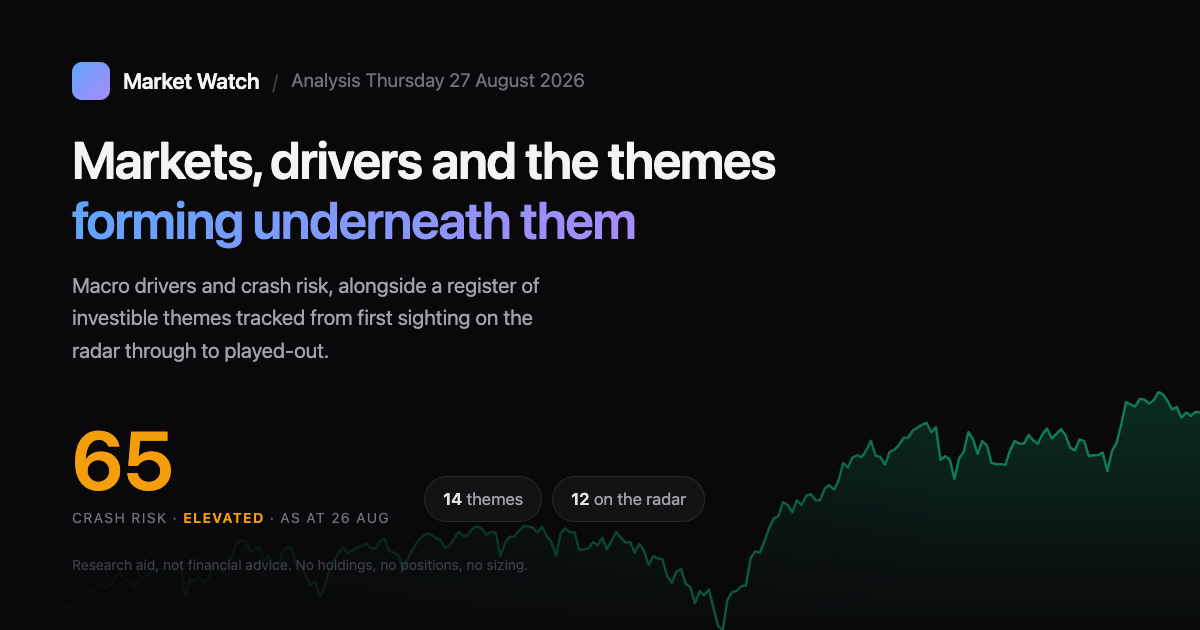
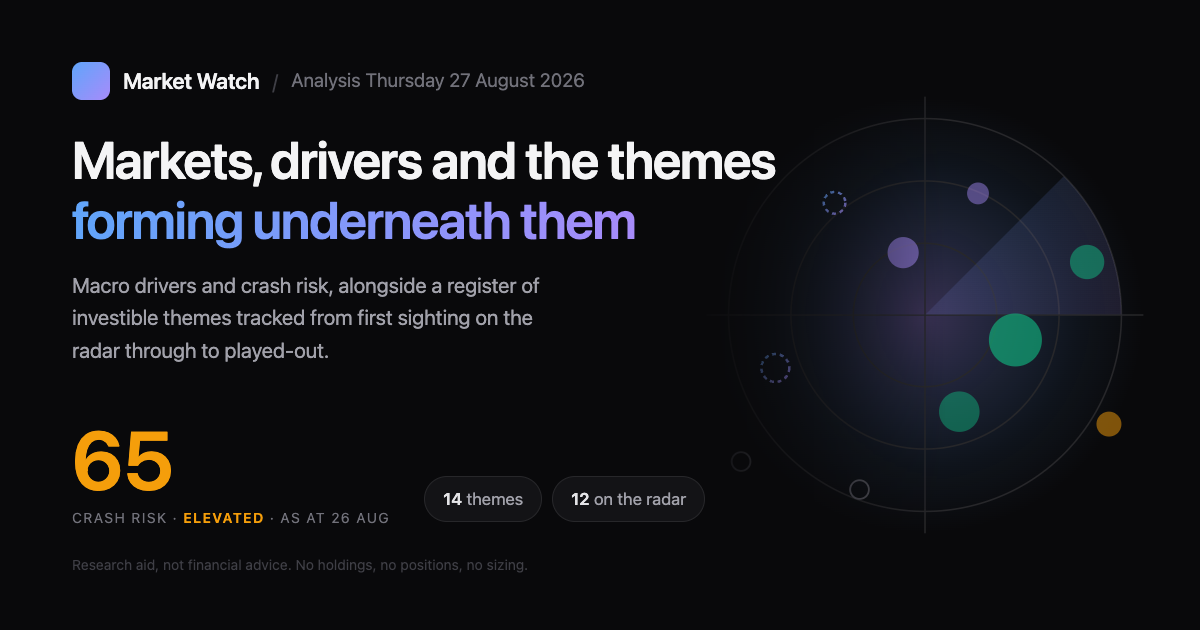
Share card: the radar, not the trendline I removed from the page
The card still carried the S&P line after the page stopped using it, so a shared
link showed a graphic the site no longer has. It now uses the radar, matching the
hero in both orientations.

The SVG is read out of template_v28.html rather than copied into this script —
same reason the change log is derived from git history and the spine from the
records. A second copy of that markup would drift from the one the page renders,
and nothing would notice. If the block ever stops matching, the card is built
without art and says so on stderr, rather than shipping a stale duplicate.

diff --git a/make_preview.py b/make_preview.py
@@ -13,7 +13,7 @@ it, not the report date. It is regenerated by hand rather than daily, so it will
 sometimes be a few days behind the page — a dated snapshot is honest about that
 in a way a bare number is not.
 """
-import json, sys, os, html, datetime
+import json, re, sys, os, html, datetime
 
 data_path = sys.argv[1] if len(sys.argv) > 1 else "market_watch_data.json"
 out_path  = sys.argv[2] if len(sys.argv) > 2 else "/tmp/card.html"
@@ -40,36 +40,29 @@ gcol = "#f43f5e" if comp >= 70 else "#f59e0b" if comp >= 40 else "#10b981"
 n_themes = len(D.get("investible_themes", []))
 n_radar  = len(D.get("radar", []))
 
-# --- the backdrop, from the same series the S&P tile renders ----------------
-W, H, TOP, BOT = 1200, 258, 20, 0
-hist = next((t.get("hist") or [] for t in D["state_of_play"]["tiles"]
-             if "S&P" in t.get("lbl", "")), [])
-art, lcol = "", "#10b981"
-if len(hist) >= 8:
-    lo, hi = min(hist), max(hist)
-    rng = (hi - lo) or 1
-    n = len(hist)
-    pts = ["%s%.1f %.1f" % ("L" if i else "M", i * W / (n - 1),
-                            TOP + (1 - (v - lo) / rng) * (H - TOP - BOT))
-           for i, v in enumerate(hist)]
-    line = "".join(pts)
-    lcol = "#10b981" if hist[-1] >= hist[0] else "#f43f5e"
-    art = ('<svg class="art" viewBox="0 0 %d %d" preserveAspectRatio="none">'
-           '<defs><linearGradient id="f" x1="0" y1="0" x2="0" y2="1">'
-           '<stop offset="0%%" stop-color="%s" stop-opacity=".20"/>'
-           '<stop offset="100%%" stop-color="%s" stop-opacity="0"/></linearGradient></defs>'
-           '<path d="%sL%d %dL0 %dZ" fill="url(#f)"/>'
-           '<path d="%s" fill="none" stroke="%s" stroke-opacity=".62" stroke-width="2.4" '
-           'stroke-linejoin="round" vector-effect="non-scaling-stroke"/></svg>'
-           % (W, H, lcol, lcol, line, W, H, H, line, lcol))
+# --- the backdrop: the radar graphic, read out of the template ---------------
+# Read rather than copied, for the same reason the change log is derived from git
+# history: a second copy of this SVG would drift from the one the page renders.
+tpl_path = os.path.join(os.path.dirname(os.path.abspath(__file__)), "template_v28.html")
+art = ""
+try:
+    tpl = open(tpl_path, encoding="utf-8").read()
+    m = re.search(r'<svg class="herog".*?</svg>', tpl, re.S)
+    if m:
+        art = m.group(0).replace('class="herog"', 'class="art"')
+except OSError:
+    pass
+if not art:
+    print("WARN: no .herog svg found in template_v28.html - card has no art",
+          file=sys.stderr)
 
 CARD = """<!DOCTYPE html><html><head><meta charset="utf-8"><style>
 *{{box-sizing:border-box;margin:0}}
 html,body{{width:1200px;height:630px;overflow:hidden}}
 body{{background:#09090b;color:#f4f4f5;position:relative;
   font:16px/1.55 -apple-system,BlinkMacSystemFont,"Segoe UI",Inter,Roboto,Helvetica,Arial,sans-serif}}
-.art{{position:absolute;left:0;right:0;bottom:0;width:1200px;height:258px;
-  -webkit-mask-image:linear-gradient(100deg,transparent 4%,rgba(0,0,0,.14) 26%,rgba(0,0,0,.55) 52%,#000 78%)}}
+.art{{position:absolute;right:10px;top:50%;transform:translateY(-50%);width:530px;height:468px;
+  -webkit-mask-image:linear-gradient(90deg,transparent 4%,#000 54%)}}
 .in{{position:relative;z-index:2;padding:62px 72px 54px;height:100%;display:flex;flex-direction:column}}
 .eb{{display:flex;align-items:center;gap:13px;font-size:20px;color:#a1a1aa}}
 .lg{{width:38px;height:38px;border-radius:10px;background:linear-gradient(135deg,#60a5fa,#a78bfa);
